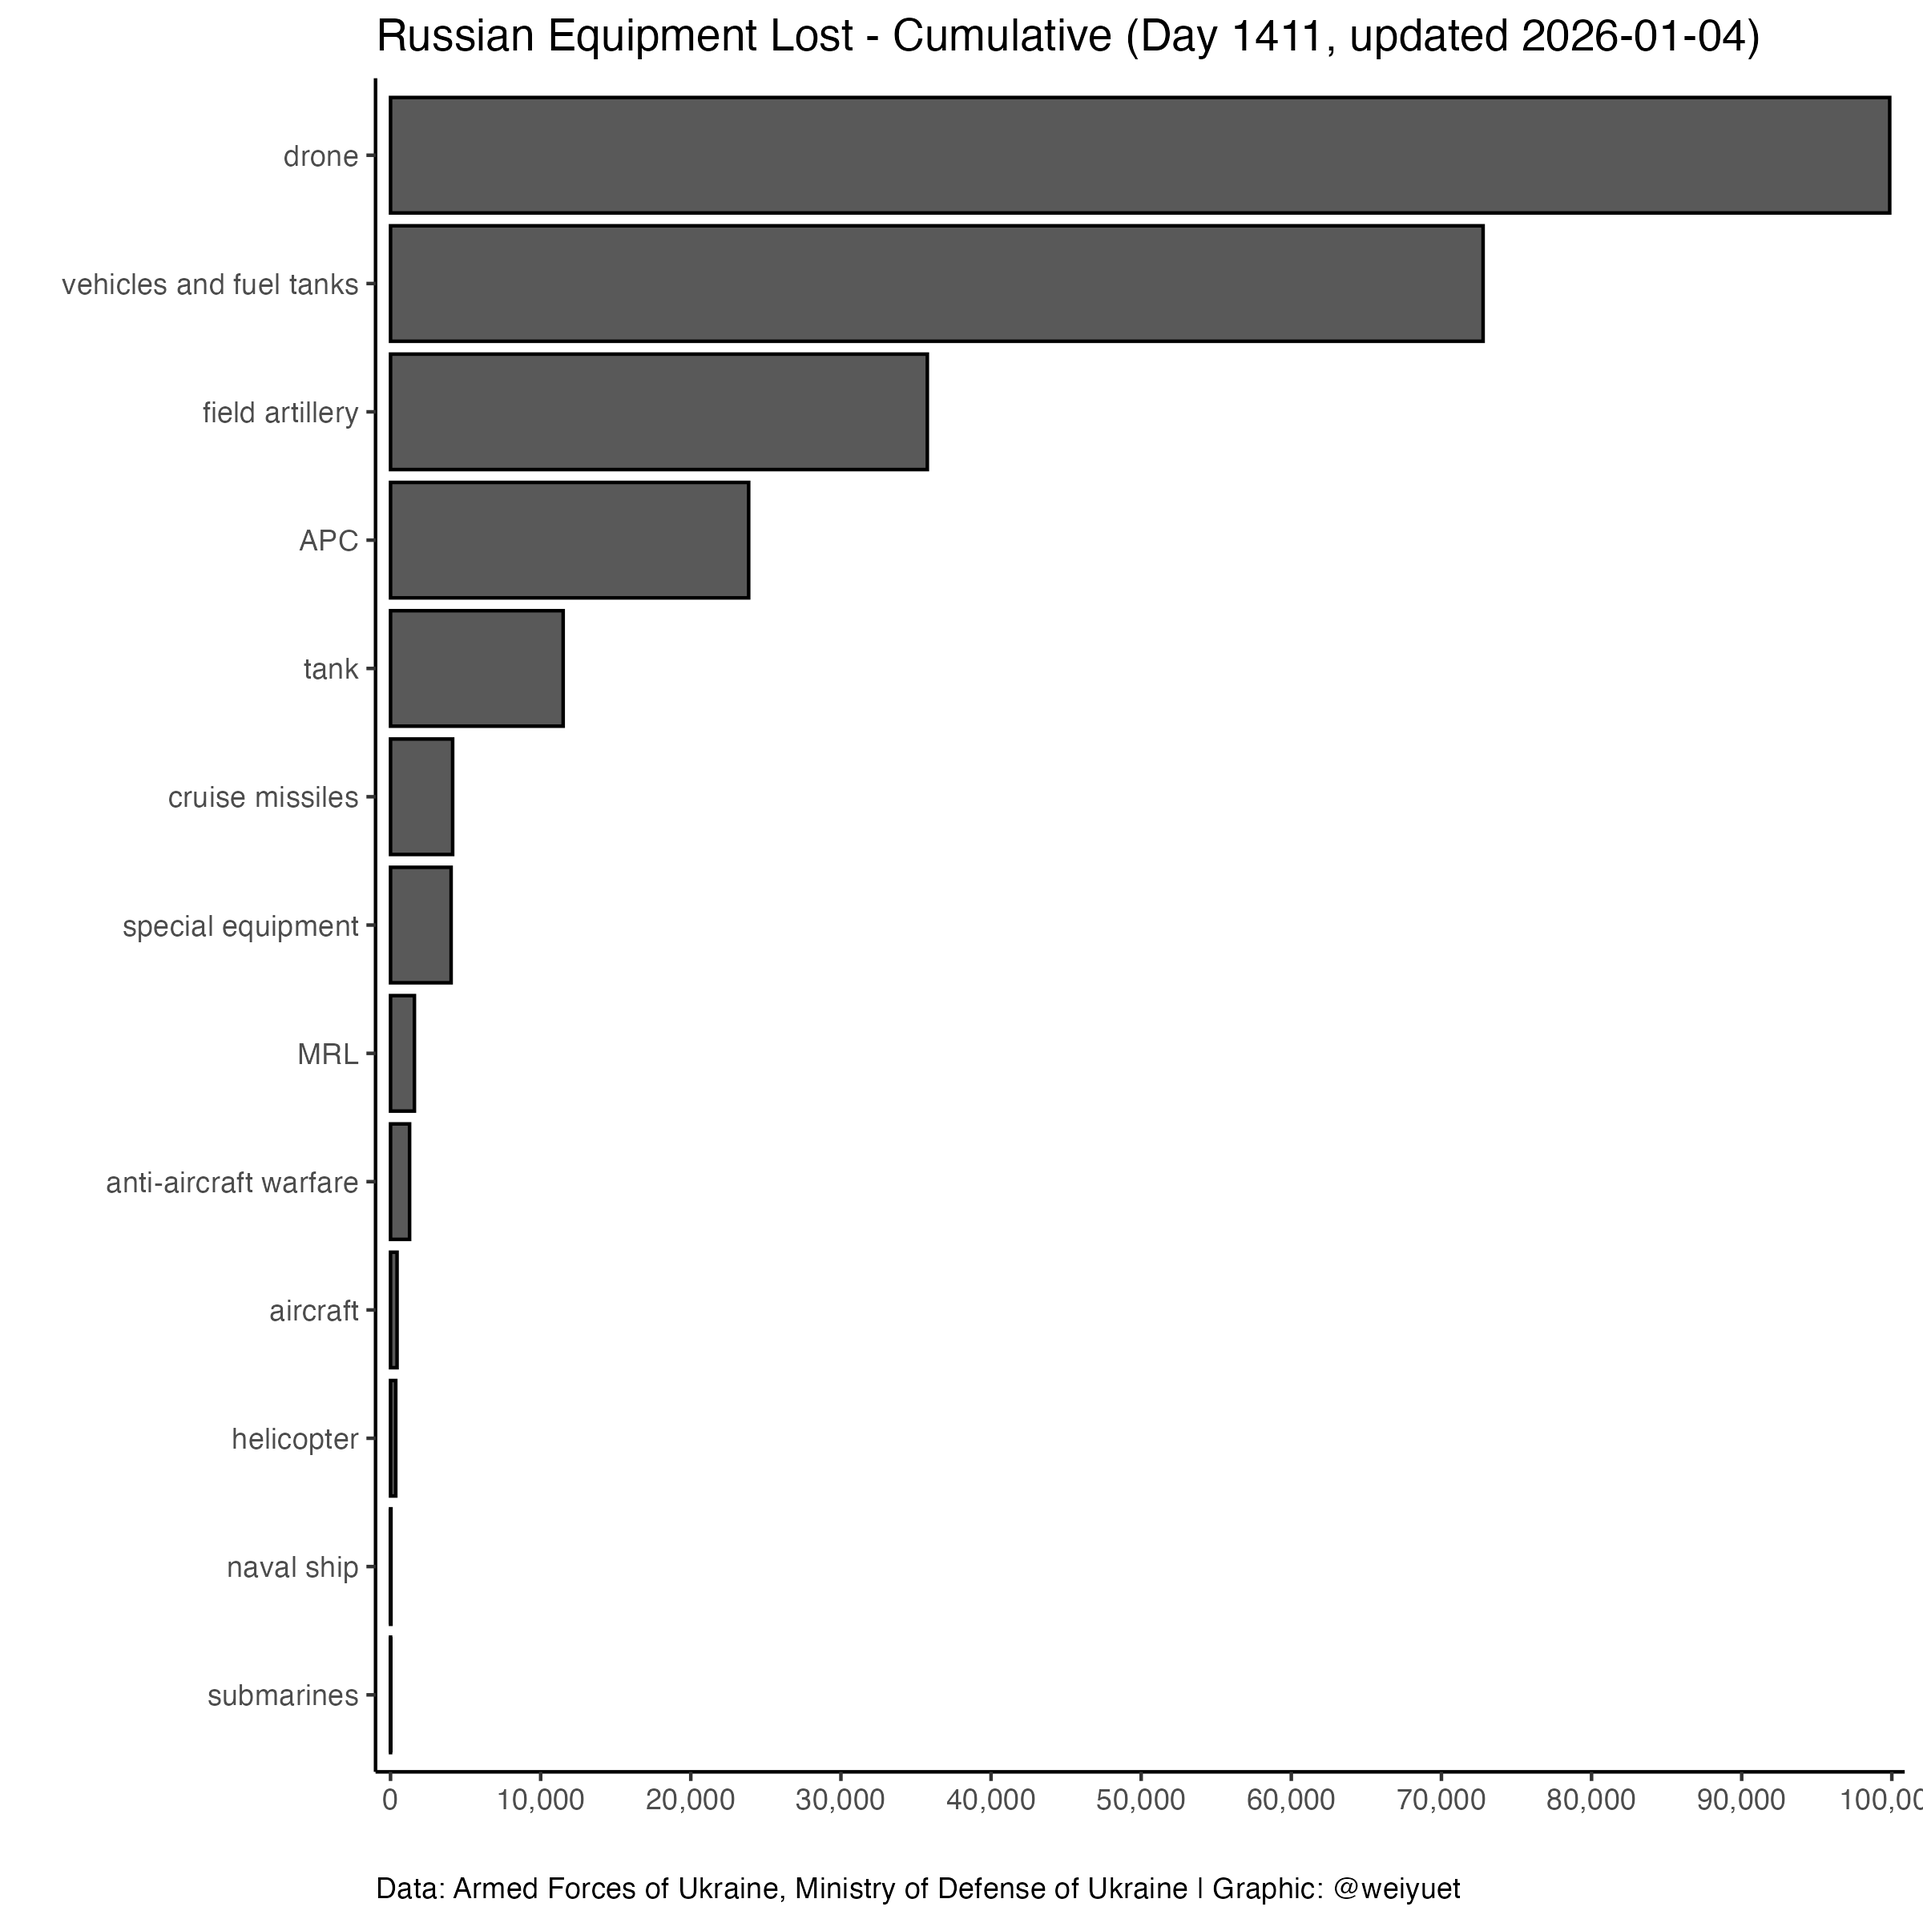
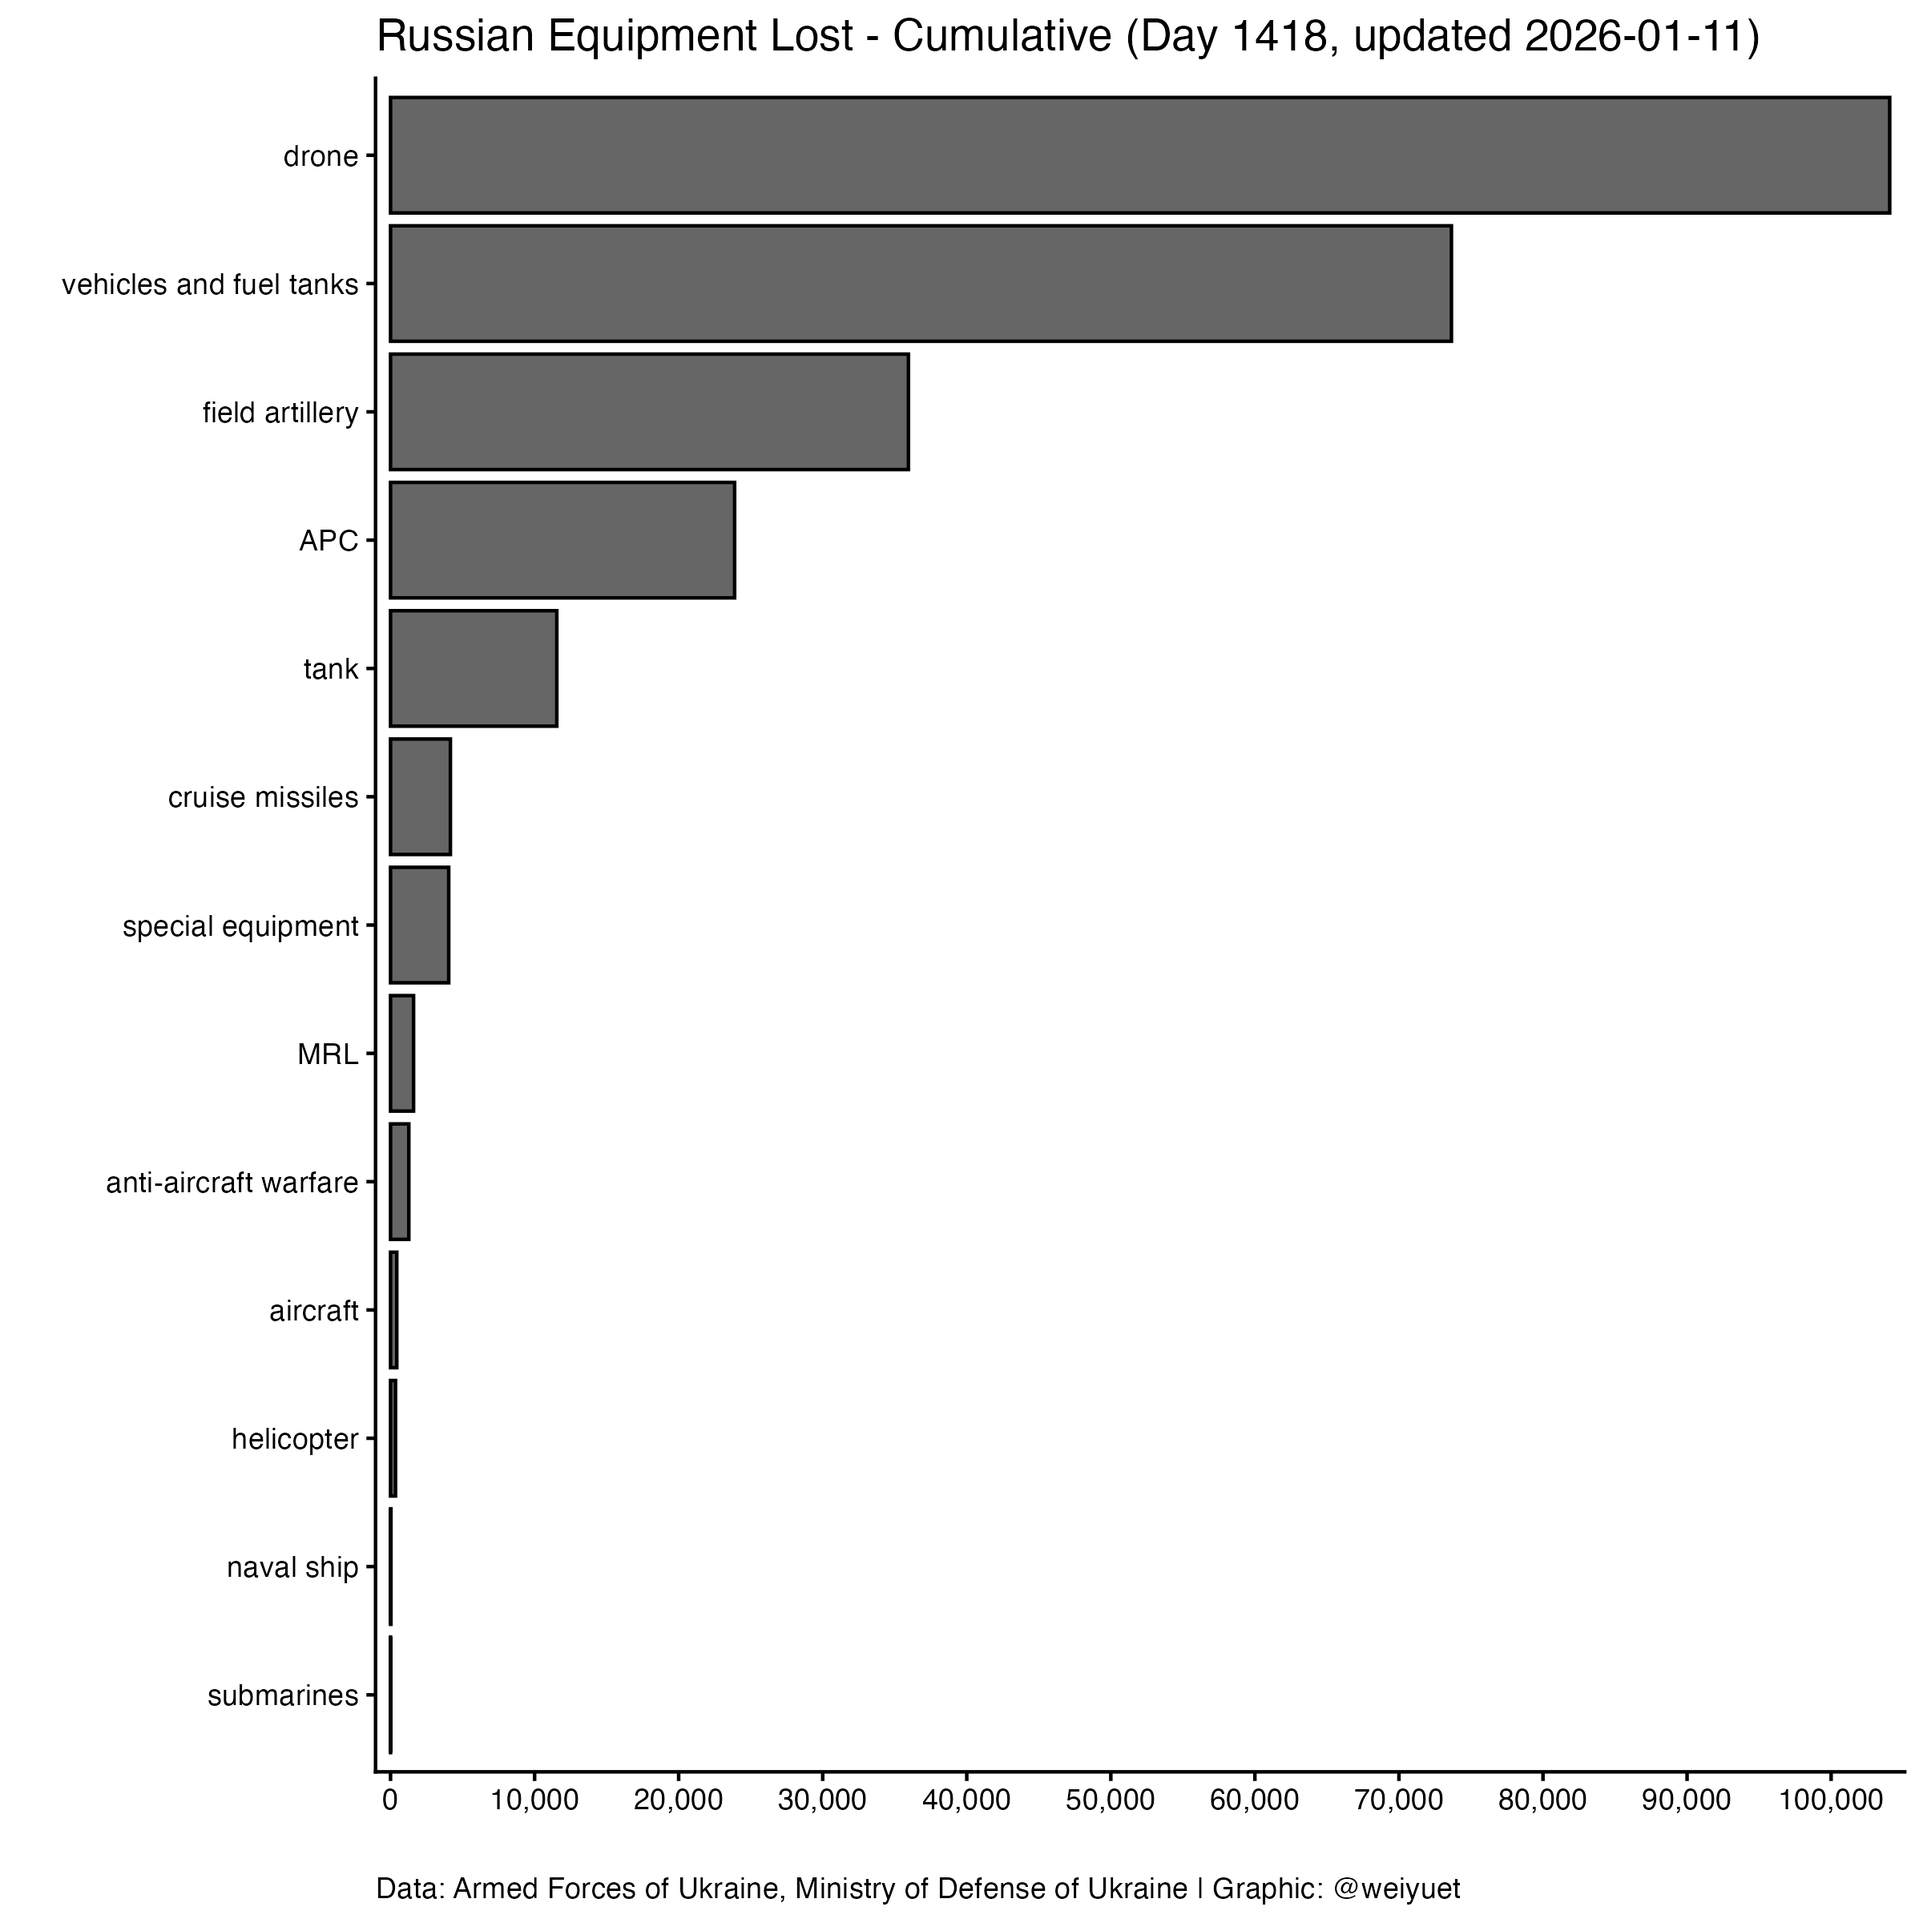
Updated 12 January 2026

diff --git a/README.md b/README.md
@@ -1,12 +1,12 @@
 # Russo-Ukrainian War
 
-  - First Inspired by [`Lena Sokol's Kaggle`](https://www.kaggle.com/code/sokolheavy/2022-ukraine-russia-war-visualization)
+  - First Inspired by [`Lena Sokol's Kaggle`](https://www.kaggle.com/code/sokolheavy/2022-ukraine-russia-war-visualization).
 
   - War casualty data updated weekly from [`Petro Ivanyuk's Kaggle`](https://www.kaggle.com/datasets/piterfm/2022-ukraine-russian-war). All data is official and put together by `Petro`.
 
 Created: 2022-05-26
 
-Updated: 2026-01-06
+Updated: 2026-01-12
 
 ## Summary of Conflict
 
@@ -21,4 +21,4 @@ The Russo-Ukrainian War is an ongoing war between Russia (together with pro-Russ
 ## Russian Equipment Lost (cumulative)
 ![](https://github.com/weiyuet/russo-ukrainian-war/blob/main/figures/russia-losses-equipment-cumulative.png)
 
-EOL
+End
